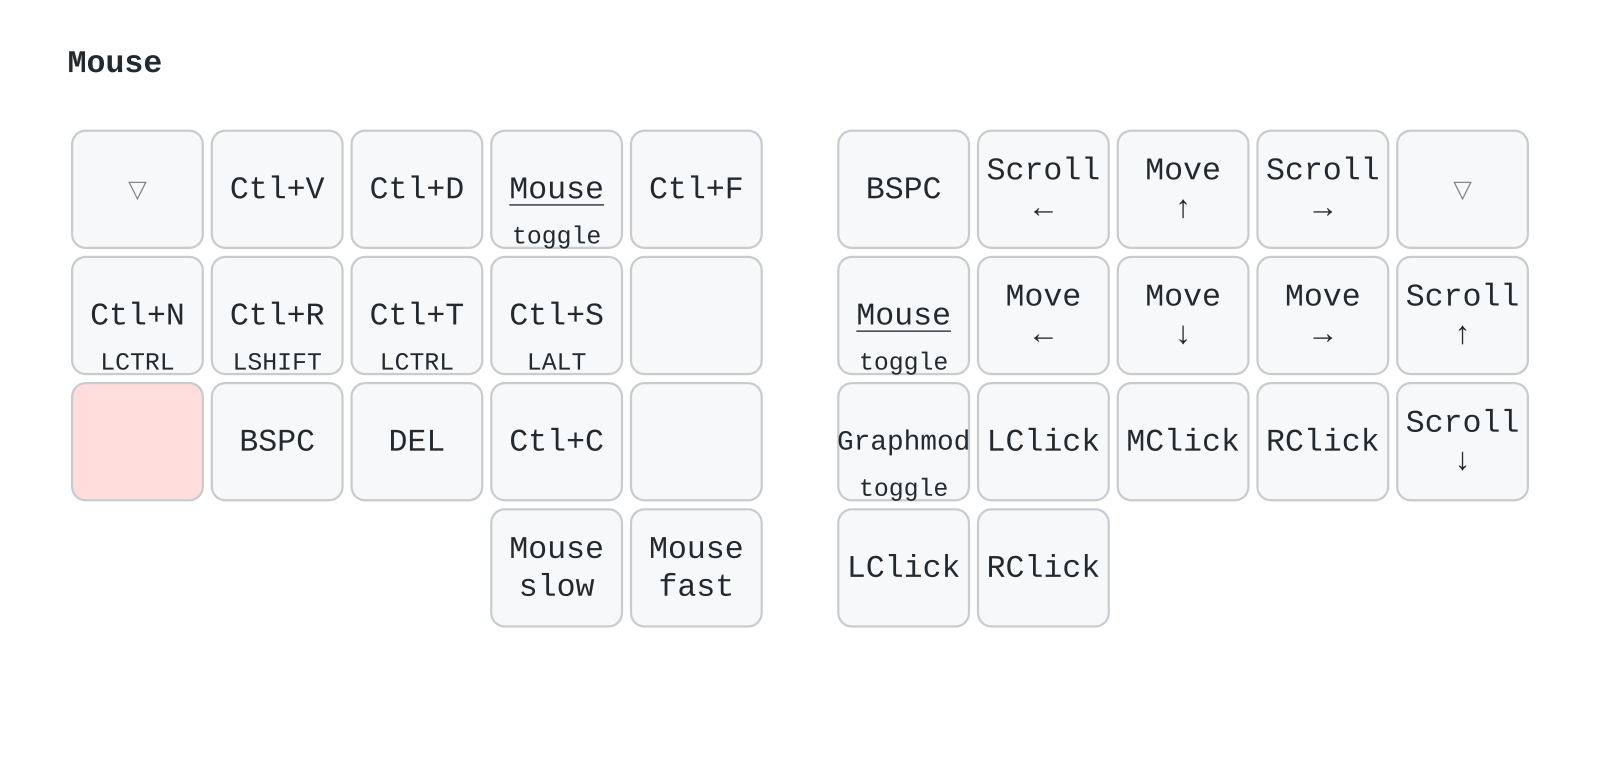
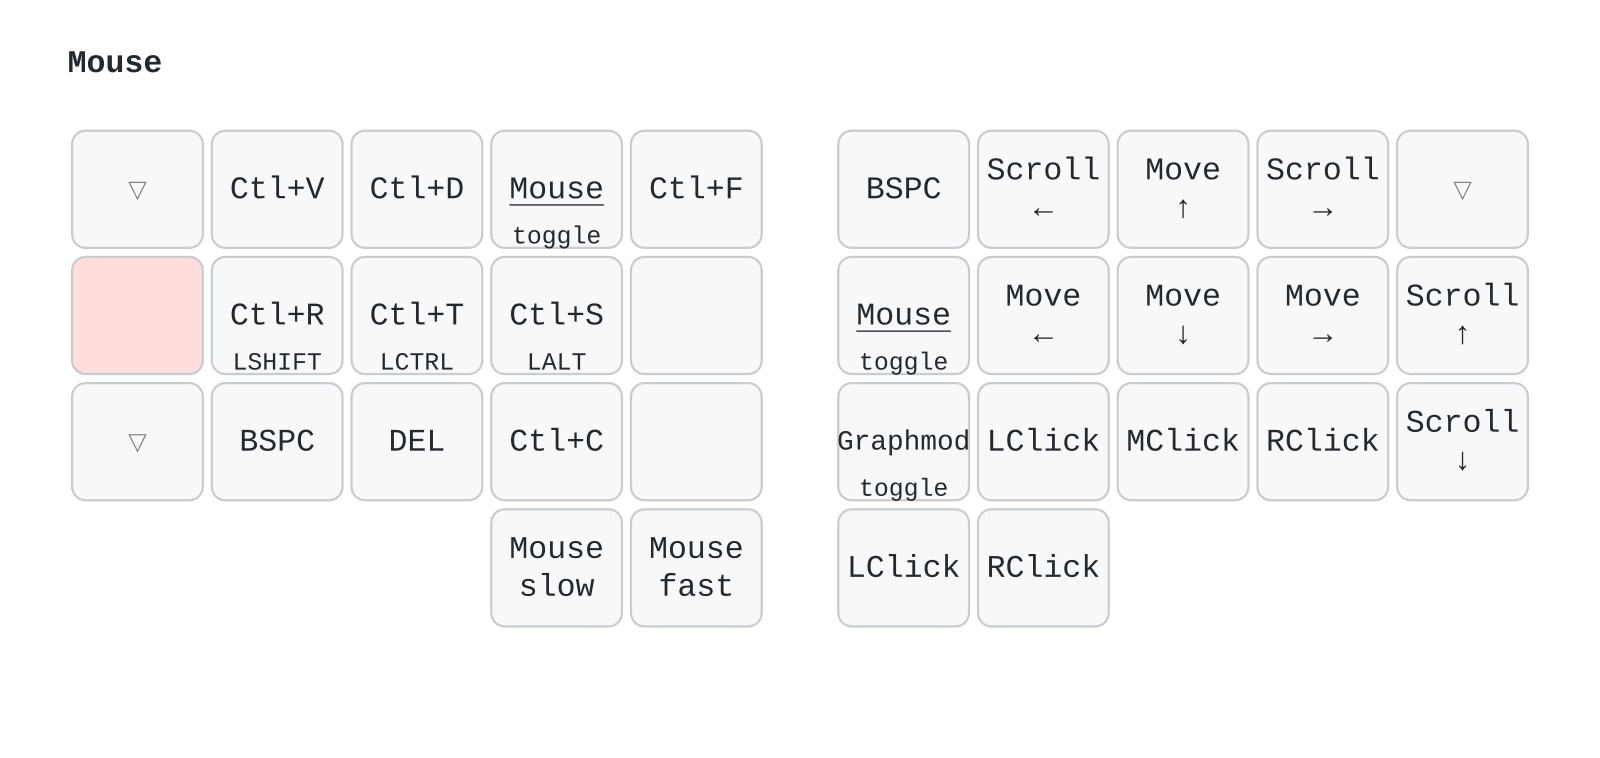
Port Oryx QzeEMV: Mouse layer hold moves from Y to N

Changed region(s): [[0.0312, 0.3338, 0.125, 0.6675]]

diff --git a/CLAUDE.md b/CLAUDE.md
@@ -60,7 +60,7 @@ Defined in `config/kibard.keymap`. Layer indices:
 | 1 | Symbols | left thumb hold (`LT_TH L_SYM SPACE`, pos 30) |
 | 2 | Symbols+ | `LT_TH L_SYMP SE_AT` hold on Symbols (pos 10) |
 | 3 | Numpad | left thumb hold (`LT_TH L_NUM ESC`, pos 31), or `to L_NUM` from Navigate |
-| 4 | Mouse | `HML_LT L_MOUSE Y` hold (pos 20) |
+| 4 | Mouse | `HML_LT L_MOUSE N` hold (pos 10) |
 | 5 | Alpha+ | right thumb hold (`LT_TH L_ALPHAP RET`, pos 33), or `lt L_ALPHAP N0` on Numpad (pos 33) |
 | 6 | Navigate | right thumb hold (`LT_TH L_NAV TAB`, pos 32) |
 | 7 | Vim | `lt L_VIM B` (pos 14) |
@@ -99,7 +99,7 @@ overrides near the top of `kibard.keymap`; the two numbers are
 
 `HML` (left hand) and `HMR` (right hand) are `zmk,behavior-hold-tap` with `flavor = "balanced"`, `tapping-term-ms = 250`, `quick-tap-ms = 175`, `require-prior-idle-ms = 150`, `hold-trigger-on-release`, and positional `hold-trigger-key-positions` restricting each to the opposite hand. Home row mod order, index→pinky (inner to outer): Alt / Ctrl / Shift.
 
-`HML_LT` is `HML` with `&mo` as the hold, used for Y (pos 20) → Mouse; the
+`HML_LT` is `HML` with `&mo` as the hold, used for N (pos 10) → Mouse; the
 thumbs count as hold triggers too, so the mouse speed layers work right after it.
 
 `CAP(k)` (tap `k`, hold for `Shift+k`) is a plain time-based hold-tap on the
